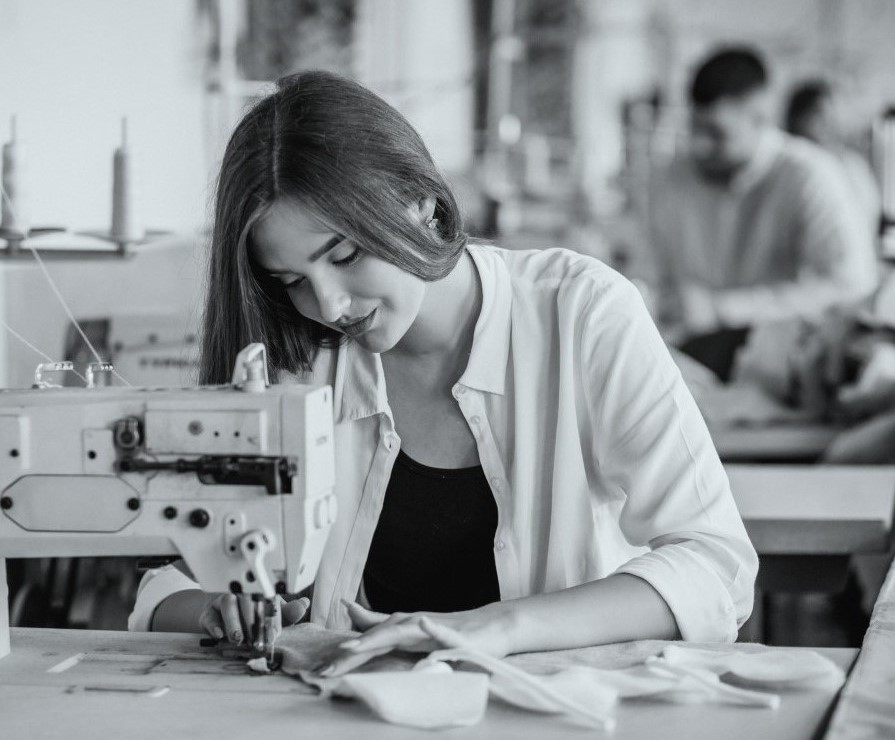
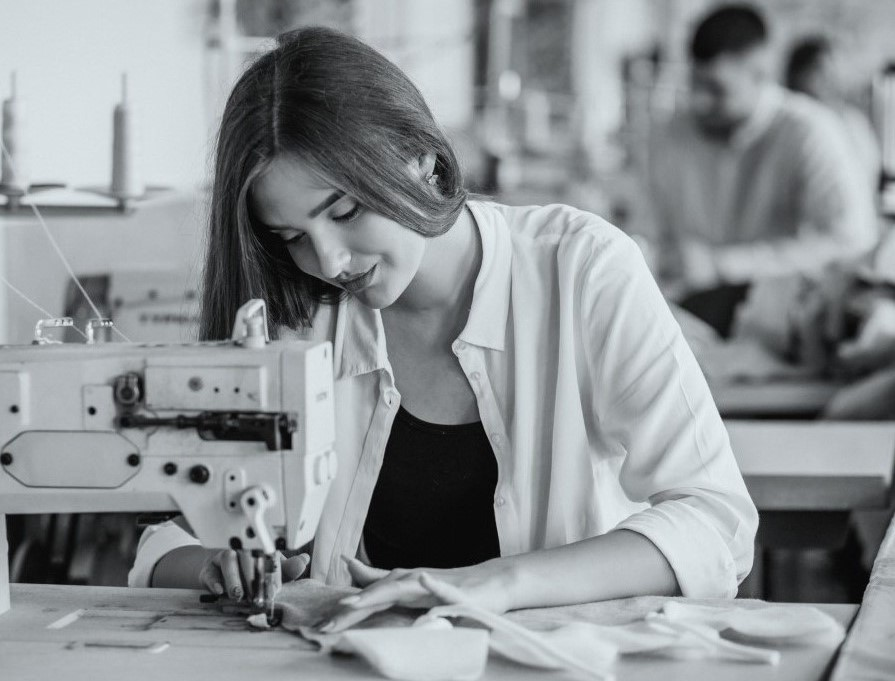
Commit

diff --git a/css/main.css b/css/main.css
@@ -100,8 +100,9 @@ body {
   overflow: hidden;
 }
 .about-img img {
+  width: 100%;
   max-width: 100%;
-  min-height: 100%;
+  height: 100%;
   transition: transform 0.8s ease;
 }
 .about-img img:hover {
